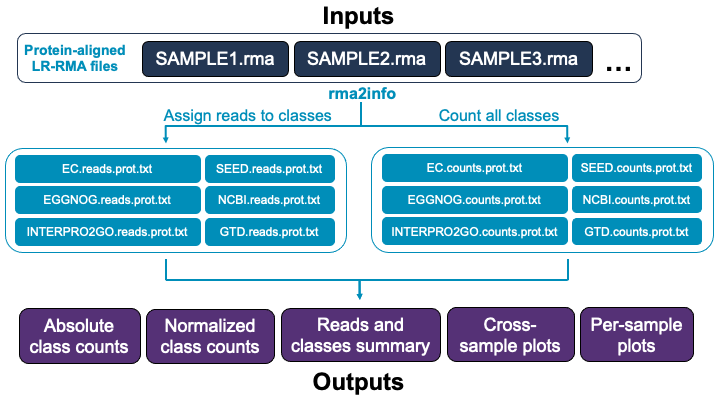
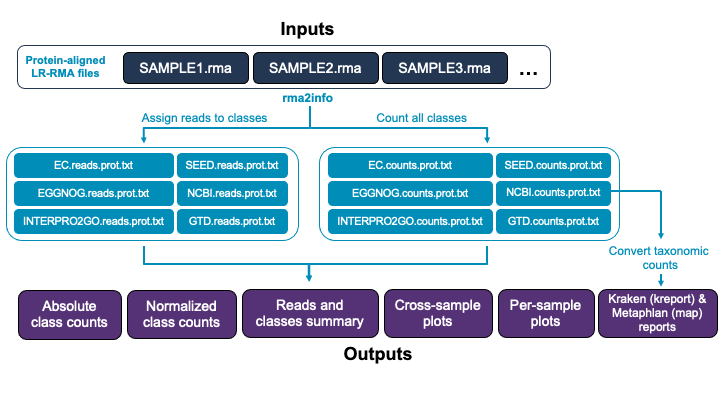
added kraken and metaphlan output format for NCBI counts

diff --git a/MEGAN-RMA-summary/scripts/Convert_MEGAN_RMA_NCBI_c2c-snake.py b/MEGAN-RMA-summary/scripts/Convert_MEGAN_RMA_NCBI_c2c-snake.py
@@ -1,0 +1,189 @@
+import argparse
+import os
+import ete3
+import pandas as pd
+from ete3 import NCBITaxa
+
+def get_args():
+    """
+    Get arguments from command line with argparse.
+    """
+    parser = argparse.ArgumentParser(
+        prog='Convert_RMA_NCBI_c2c.py',
+        description="""Convert a NCBI c2c file obtained from a read-count MEGAN6 RMA file 
+        into an mpa (metaphlan) and kreport (kraken) output format.""")
+
+    parser.add_argument("-i", "--input",
+                        required=True,
+                        help="An NCBI 'c2c' text file obtained from a read-count MEGAN6 "
+                             "RMA file using the rma2info program "
+                             "(rma2info -i input.RMA -o NCBI.c2c.txt -c2c Taxonomy -n -r)")
+    parser.add_argument("-o1", "--outname1",
+                        required=True,
+                        help="The name of intermediate output file 1, which contains taxon names "
+                             "(e.g., SAMPLE.names.txt).")
+    parser.add_argument("-o2", "--outname2",
+                        required=True,
+                        help="The name of intermediate output file 2, which contains taxon id codes "
+                             "(e.g., SAMPLE.codes.txt).")
+    parser.add_argument("-m", "--mpa",
+                        required=True,
+                        help="The name of the mpa formatted output file (e.g., SAMPLE.mpa.txt).")
+    parser.add_argument("-k", "--kreport",
+                        required=True,
+                        help="The name of the kreport formatted output file (e.g., SAMPLE.kreport.txt).")
+    parser.add_argument("-r", "--readsfile",
+                        required=True,
+                        help="The sample:read count txt file.")
+    parser.add_argument("--update",
+                        required=False,
+                        action='store_true',
+                        help="Including this flag will cause NCBITaxa to update the taxonomy database.")
+
+    return parser.parse_args()
+
+def activate_ncbi(update=False):
+    print("\nactivate_ncbi: Activating NCBI taxonomy database...")
+    ncbi = NCBITaxa()
+    if update is True:
+        print("\tUpdating database...")
+        ncbi.update_taxonomy_database()
+    return ncbi
+
+def get_taxon_dict(ncbi, df):
+    print("get_taxon_dict: Translating taxon names into numerical IDs...")
+    name2taxid = ncbi.get_name_translator(list(df['Name'].unique()))
+    taxon_dict = {}
+    for k, v in name2taxid.items():
+        taxon_dict[k] = {'taxid': v[0]}
+    return taxon_dict
+
+def add_ranks(ncbi, k, v):
+    lineage = ncbi.get_lineage(v['taxid'])
+    taxid_to_rank_dict = ncbi.get_rank(lineage)
+    taxid_to_names_dict = ncbi.get_taxid_translator(lineage)
+    ranks = ['superkingdom', 'kingdom', 'clade', 'phylum', 'class', 'order', 'family', 'genus', 'species', 'strain']
+    temp_dict = {}
+    for taxid in lineage:
+        if taxid_to_rank_dict[taxid] in ranks:
+            temp_dict[taxid_to_rank_dict[taxid]] = {'taxid': taxid, 'name': taxid_to_names_dict[taxid]}
+    for r in ranks:
+        if r not in temp_dict:
+            temp_dict[r] = {'taxid': 'NA', 'name': 'NA'}
+    return temp_dict
+
+def write_intermediate_output(taxon_dict, output, label):
+    print("write_intermediate_output: Writing intermediate output using {}s...".format(label))
+    with open(output, 'a') as fh:
+        fh.write("{0}\t{1}\t{2}\t{3}\t{4}\t{5}"
+                 "\t{6}\t{7}\t{8}\t{9}\t{10}\t{11}\n".format('Taxon', 'Count', 'superkingdom',
+                                                     'kingdom', 'clade', 'phylum', 'class',
+                                                     'order', 'family', 'genus', 'species', 'strain'))
+        for k, v in taxon_dict.items():
+            fh.write("{0}\t{1}\t{2}\t{3}\t{4}\t{5}"
+                     "\t{6}\t{7}\t{8}\t{9}\t{10}\t{11}\n".format(k, v['Count'], v['superkingdom'][label],
+                                                           v['kingdom'][label], v['clade'][label],
+                                                           v['phylum'][label], v['class'][label],
+                                                           v['order'][label], v['family'][label],
+                                                           v['genus'][label], v['species'][label],
+                                                           v['strain'][label]))
+
+def make_lineage_dict(infile):
+    print("\nmake_lineage_dict: Reading intermediate ranks file...")
+    lineage_dict = {}
+    with open(infile, 'r') as fh:
+        next(fh)
+        for line in fh:
+            parts = line.strip().split('\t')
+            badnames = ["k__NA", "p__NA", "c__NA", "o__NA", "f__NA", "g__NA", "s__NA", "ss__NA"]
+            relabeled = ["k__{}".format(parts[2]), "p__{}".format(parts[5]),
+                         "c__{}".format(parts[6]), "o__{}".format(parts[7]),
+                         "f__{}".format(parts[8]), "g__{}".format(parts[9]),
+                         "s__{}".format(parts[10]), "ss__{}".format(parts[11])]
+            lineage = "|".join([l for l in relabeled if l not in badnames])
+            if lineage:
+                lineage_dict[lineage] = {'level_count': int(parts[1]), 'cumulative_count': int(0)}
+    return lineage_dict
+
+def fill_out_lineages(lineage_dict):
+    print("fill_out_lineages: Filling out lineage gaps...")
+    expanded_dict = {k: v for (k, v) in lineage_dict.items()}
+    for k, v in lineage_dict.items():
+        expanded_dict[k] = v
+        label = ""
+        for i in k.split('|'):
+            label += i
+            if label not in expanded_dict:
+                expanded_dict[label] = {'level_count': int(0), 'cumulative_count': int(0)}
+            label += "|"
+    print("Calculating cumulative counts...")
+    for key in expanded_dict.keys():
+        expanded_dict[key]['cumulative_count'] = sum([expanded_dict[k]['level_count'] for k in expanded_dict.keys() if k.startswith(key)])
+    return expanded_dict
+
+def write_mpa(expanded_dict, outname):
+    print("write_mpa: Writing mpa output file...")
+    # mpa is 2 columns: full_lineage + cumulative_count
+    with open(outname, 'a') as fh:
+        for k, v in sorted(expanded_dict.items()):
+            fh.write("{}\t{}\n".format(k.replace(" ","_"), v['cumulative_count']))
+
+def get_readcount(c2c, rcfile):
+    # c2c is labeled as: 2-c2c/{sample}.NCBI.counts.prot.txt
+    sample = c2c.split('/')[-1].split('.')[0]
+    print("get_readcount: Identified sample {}".format(sample))
+    rc_dict = {}
+    with open(rcfile, 'r') as fh:
+        for line in fh:
+            rc_dict[line.strip().split()[0]] = int(line.strip().split()[1])
+            print("get_readcount: parsed line - {}, {}".format(line.strip().split()[0], line.strip().split()[1]))
+    return rc_dict[sample]
+
+
+def write_kreport(expanded_dict, outname, reads, ncbi):
+    print("write_kreport: Writing kreport output file...")
+    # headers for kreport
+    # proportion + cumulative_count + level_count + rank + taxid + name
+    with open(outname, 'a') as fh:
+        for k, v in sorted(expanded_dict.items()):
+            indent_rules = {"K":"", "P":"  ", "C":"    ",
+                            "O":"      ", "F":"        ",
+                            "G":"          ", "S":"          ",
+                            "SS":"            "}
+            if '|' in k:
+                rank = k.split('|')[-1].split('_')[0].upper()
+                name = k.split('|')[-1].split('_')[-1]
+            else:
+                rank = k.split('_')[0].upper()
+                name = k.split('_')[-1]
+            taxid = ncbi.get_name_translator([name])[name][0]
+            name = indent_rules[rank] + name
+            if rank == "SS":
+                rank = "S1"
+            row_data = [round((float(v['cumulative_count'])/float(reads))*100, 2), v['cumulative_count'], v['level_count'], rank, taxid, name]
+            row_string = "\t".join([str(i) for i in row_data])
+            fh.write("{}\n".format(row_string))
+
+def main():
+    args = get_args()
+    ncbi = activate_ncbi(args.update)
+    print("\npandas: Reading in c2c file...")
+    df = pd.read_csv(args.input, sep='\t', names=['Level', 'Name', 'Count'], header=None)
+    taxon_dict = get_taxon_dict(ncbi, df)
+    print("add_ranks: Getting lineage information for all taxa...")
+    for k, v in taxon_dict.items():
+        # add lineage ranks and names
+        v.update(add_ranks(ncbi, k, v))
+        # add read counts
+        v['Count'] = int((df.loc[df['Name'] == k])['Count'])
+    write_intermediate_output(taxon_dict, args.outname1, 'name')
+    write_intermediate_output(taxon_dict, args.outname2, 'taxid')
+    lineage_dict = make_lineage_dict(args.outname1)
+    expanded_dict = fill_out_lineages(lineage_dict)
+    write_mpa(expanded_dict, args.mpa)
+    readcount = get_readcount(args.input, args.readsfile)
+    write_kreport(expanded_dict, args.kreport, readcount, ncbi)
+    print("\nDone!\n")
+
+if __name__ == '__main__':
+    main()

diff --git a/MEGAN-RMA-summary/scripts/Run_ete3_NCBI_update.py b/MEGAN-RMA-summary/scripts/Run_ete3_NCBI_update.py
@@ -1,0 +1,41 @@
+import argparse
+import os
+import ete3
+import pandas as pd
+from ete3 import NCBITaxa
+
+def get_args():
+    """
+    Get arguments from command line with argparse.
+    """
+    parser = argparse.ArgumentParser(
+        prog='Run_ete3_NCBI_update.py',
+        description="""More or less make sure ete3 NCBI taxonomy will work with snakemake.""")
+
+    parser.add_argument("-i", "--input",
+                        required=True,
+                        nargs='+',
+                        help="This is a dummy argument.")
+    parser.add_argument("-o", "--outname",
+                        required=True,
+                        help="The name of intermediate file to write after script runs.")
+
+    return parser.parse_args()
+
+def activate_ncbi(update=True):
+    print("\nActivating NCBI taxonomy database...")
+    ncbi = NCBITaxa()
+    if update is True:
+        print("\tUpdating database...")
+        ncbi.update_taxonomy_database()
+    return ncbi
+
+def main():
+    args = get_args()
+    ncbi = activate_ncbi()
+    with open(args.outname, 'a') as fh:
+        fh.write("NCBI-taxonomy done updating.")
+    print("\nDone!\n")
+
+if __name__ == '__main__':
+    main()

diff --git a/docs/Tutorial-MEGAN-RMA-summary.md b/docs/Tutorial-MEGAN-RMA-summary.md
@@ -18,9 +18,9 @@
 
 The purpose of this snakemake workflow is to summarize the information contained in long-read RMA format files for MEGAN6. These RMA files were previously created from alignments of HiFi data to nucleotide or protein databases. 
 
-This workflow is intended to be used after running the [Taxonomic-Functional-Profiling-Protein](https://github.com/PacificBiosciences/pb-metagenomics-tools/tree/master/Taxonomic-Functional-Profiling-Protein) pipeline or the [Taxonomic-Profiling-Nucleotide](https://github.com/PacificBiosciences/pb-metagenomics-tools/tree/master/Taxonomic-Profiling-Nucleotide) pipeline. To work properly, these RMA files must should be created using the following settings in `sam2rma`: `-lg -alg longReads -ram readCount`. These are the default settings for both of the above pipelines. 
+This workflow is intended to be used after running the [Taxonomic-Functional-Profiling-Protein](https://github.com/PacificBiosciences/pb-metagenomics-tools/tree/master/Taxonomic-Functional-Profiling-Protein) pipeline or the [Taxonomic-Profiling-Nucleotide](https://github.com/PacificBiosciences/pb-metagenomics-tools/tree/master/Taxonomic-Profiling-Nucleotide) pipeline. To work properly, these RMA files must should be created using the following settings in `sam2rma`: `-lg -alg longReads -ram readCount`. These are the default settings for both of the above pipelines, and report read counts (rather than base pair counts) for annotations. 
 
-For protein RMA files, this workflow will output absolute and normalized read counts of the EC, EGGNOG, INTERPRO2GO, and SEED functional classes across all samples, along with read counts of the NCBI (full database and bacteria-only) and GTDB taxonomy classes across samples. A summary file and several plots will be created showing the number and percentage of reads assigned to functional and taxonomic databases, the total classes represented per database, and average annotations per read. A visual depiction of the protein-RMA workflow is shown below:
+For protein RMA files, this workflow will output absolute and normalized read counts of the EC, EGGNOG, INTERPRO2GO, and SEED functional classes across all samples, along with read counts of the NCBI (full database and bacteria-only) and GTDB taxonomy classes across samples. A summary file and several plots will be created showing the number and percentage of reads assigned to functional and taxonomic databases, the total classes represented per database, and average annotations per read. **Update (March 2021): The full NCBI taxonomic counts are now also provided in kraken report (kreport) and metaphlan (mpa) output formats.** A visual depiction of the protein-RMA workflow is shown below:
 
 ![rmaprotein](https://github.com/PacificBiosciences/pb-metagenomics-tools/blob/master/docs/MEGAN-RMA-summary-protein.png)
 
@@ -285,7 +285,9 @@ MEGAN-RMA-summary
 │
 ├── 2-c2c/
 │
-└── 3-summaries/
+├── 3-summaries/
+│
+└── 4-kraken-mpa-reports/
 ```
 
 - `benchmarks/` contains benchmark information on memory usage and I/O for each rule executed.
@@ -293,7 +295,7 @@ MEGAN-RMA-summary
 - `1-r2c/` holds the per-sample read assignment files for each database. For protein RMA, this includes EC, EGGNOG, GTDB, INTERPRO2GO, NCBI (full and bacteria-only), and SEED. For nucleotide RMA, this will only include NCBI reads. These files are temporary and will be deleted before completion if no errors occur.
 - `2-c2c/` holds the per-sample class count files for each database. For protein RMA, this includes EC, EGGNOG, GTDB, INTERPRO2GO, NCBI (full and bacteria-only), and SEED class counts. For nucleotide RMA, this will only include NCBI class counts.
 - `3-summaries/` contains combined counts files for each database which include all samples. These are present as absolute counts, and normalized counts (determined by the sample with the least number of HiFi reads). **These are the main files of interest.**
-
+- `4-kraken-mpa-reports/` contains the taxonomic class counts in kraken report (kreport) and metaphlan (mpa) format. **These two taxonomic count files allow comparisons to other taxonomic profiling programs.**
 
 ### Outputs from the Protein RMA version:
 
@@ -373,6 +375,20 @@ Average annotations per read	EGGNOG	3	3	2.8
 Average annotations per read	INTERPRO2GO	3.9	4	3.8
 Average annotations per read	SEED	2.2	2.1	2.1
 ```
+
+The taxonomic reports will be available in the `4-kraken-mpa-reports/` folder:
+
+```
+4-kraken-mpa-reports/
+│
+├── NCBI-updated.txt
+├── SAMPLE.inter.taxids.txt
+├── SAMPLE.inter.taxnames.txt
+├── SAMPLE.megan-RMA-c2c.kreport.txt
+└── SAMPLE.megan-RMA-c2c.mpa.txt
+```
+
+The key files here are `SAMPLE.megan-RMA-c2c.kreport.txt` which is the kraken report output file, and `SAMPLE.megan-RMA-c2c.mpa.txt` which is the metaphlan format output file. The other files are intermediate files or checkpointing files, and can be ignored.
 
 
 ### Outputs from the Nucleotide RMA version:
